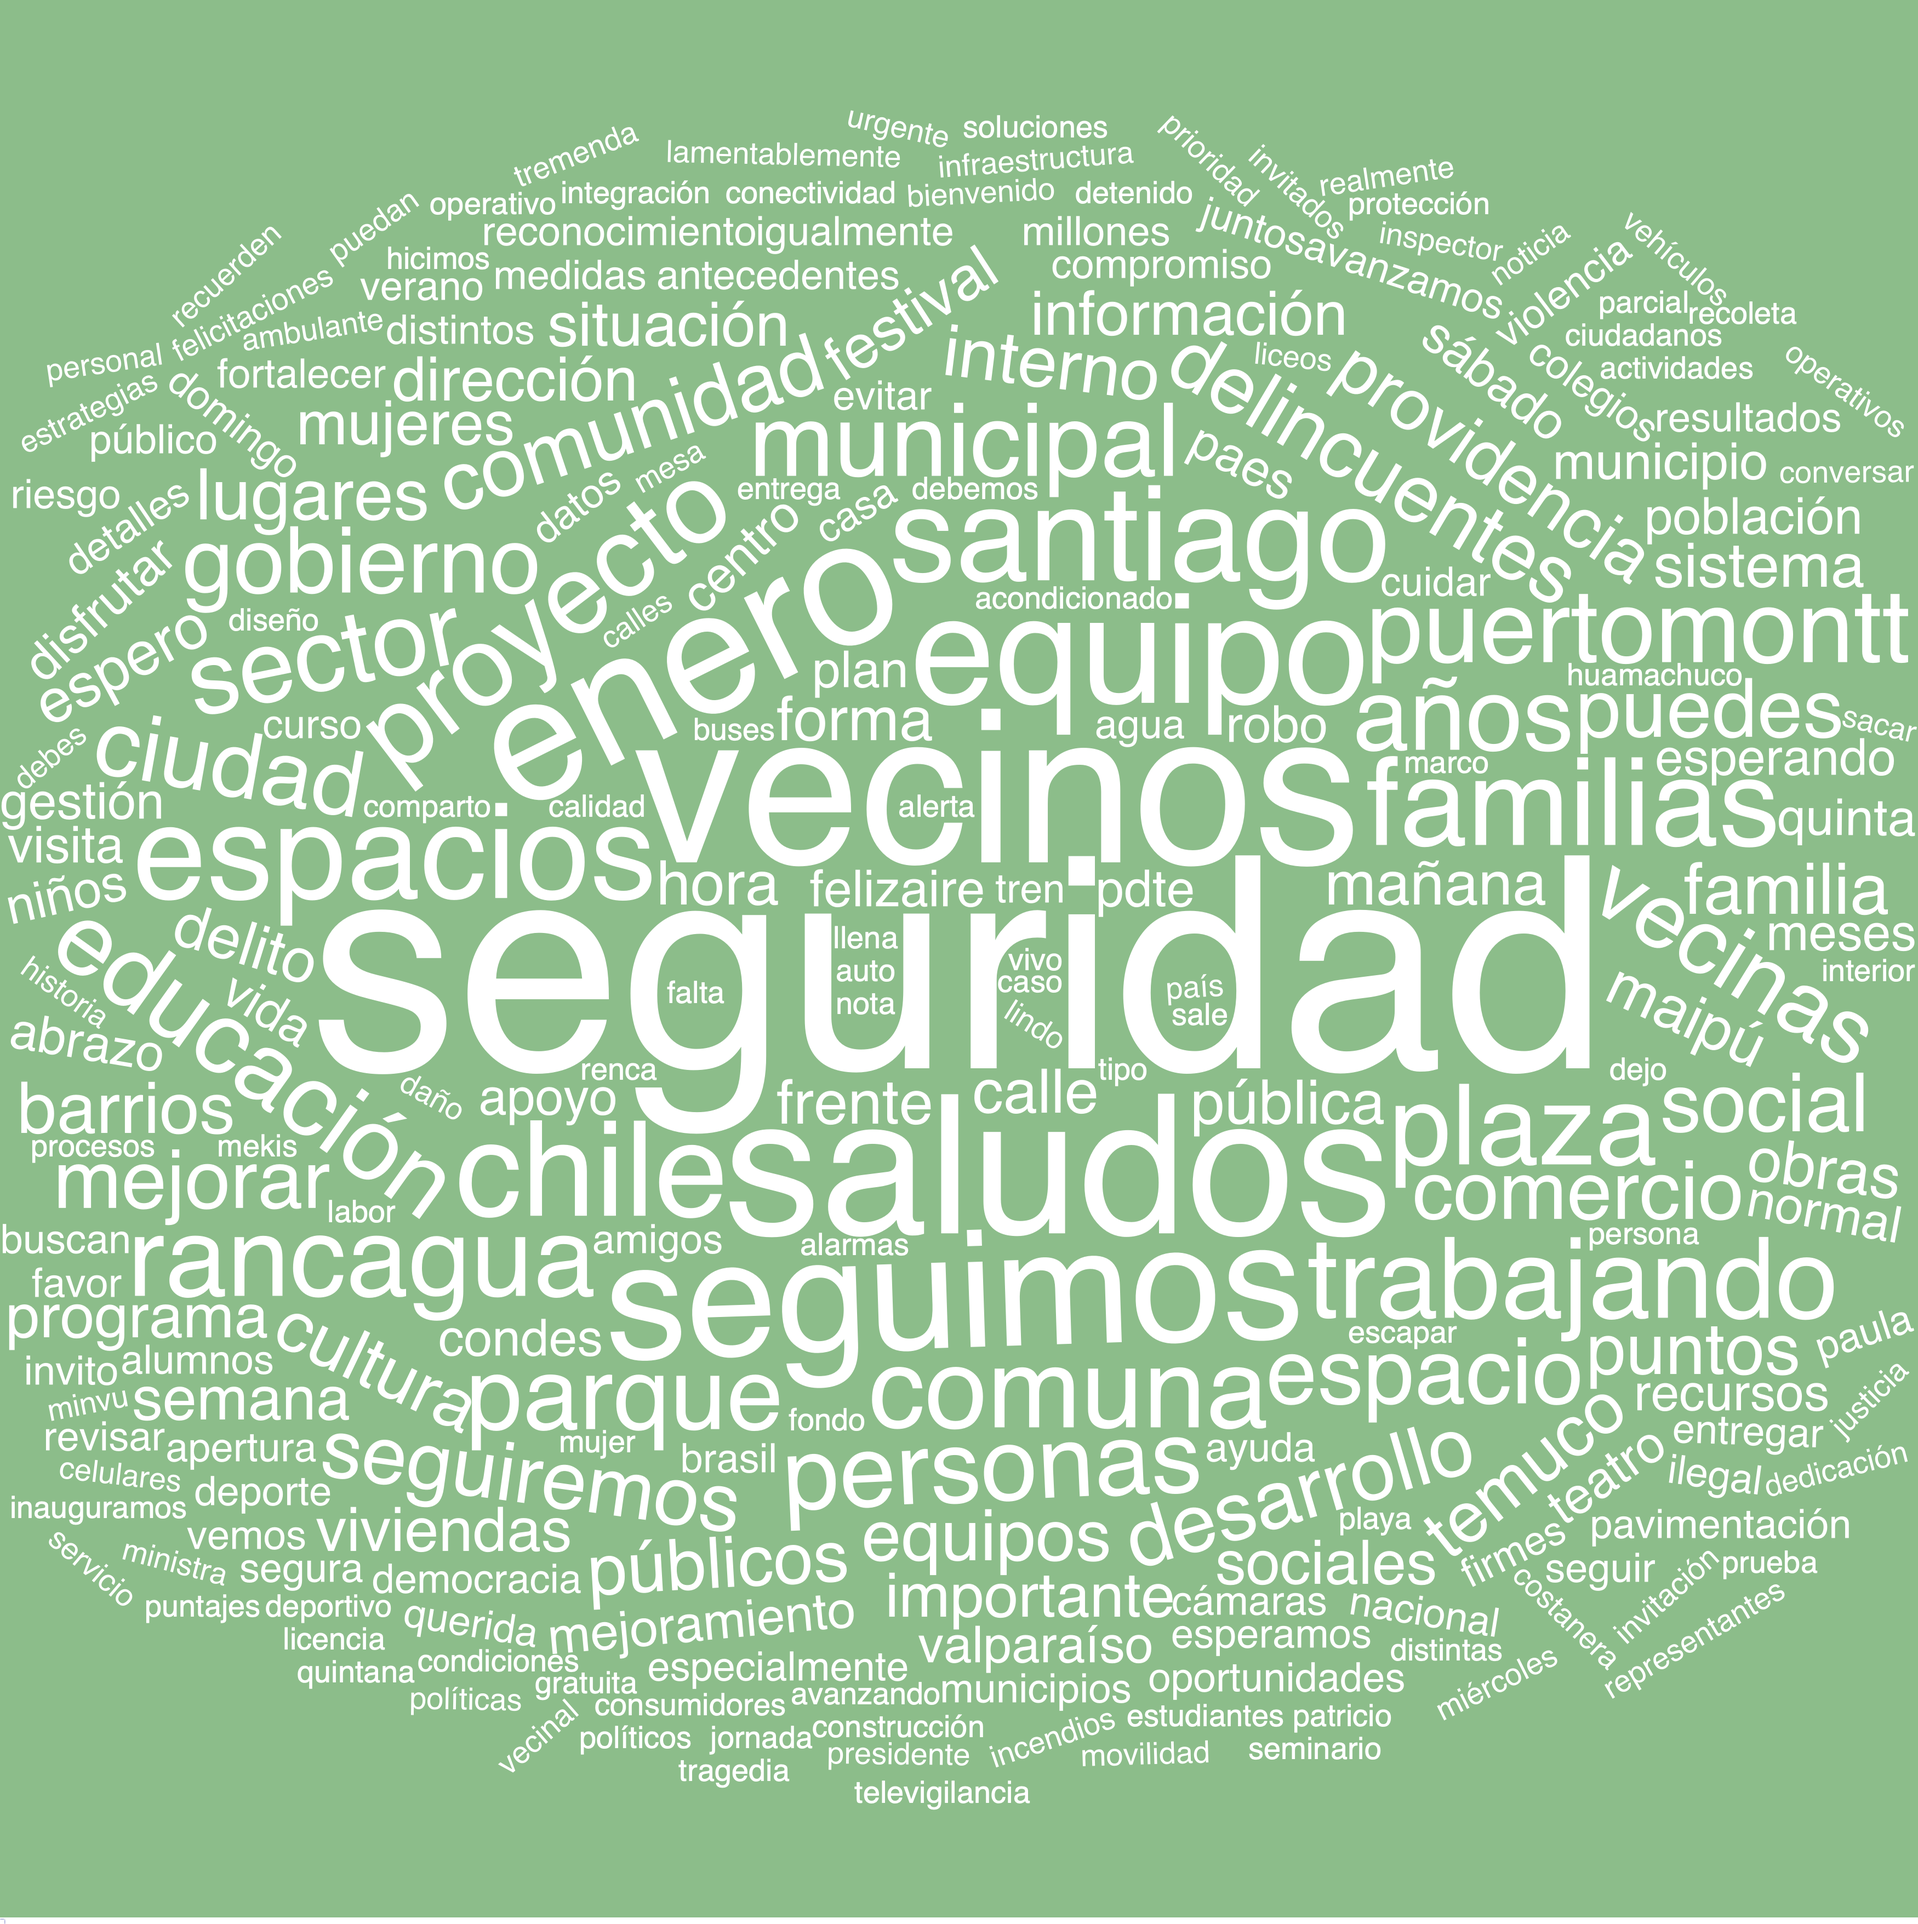
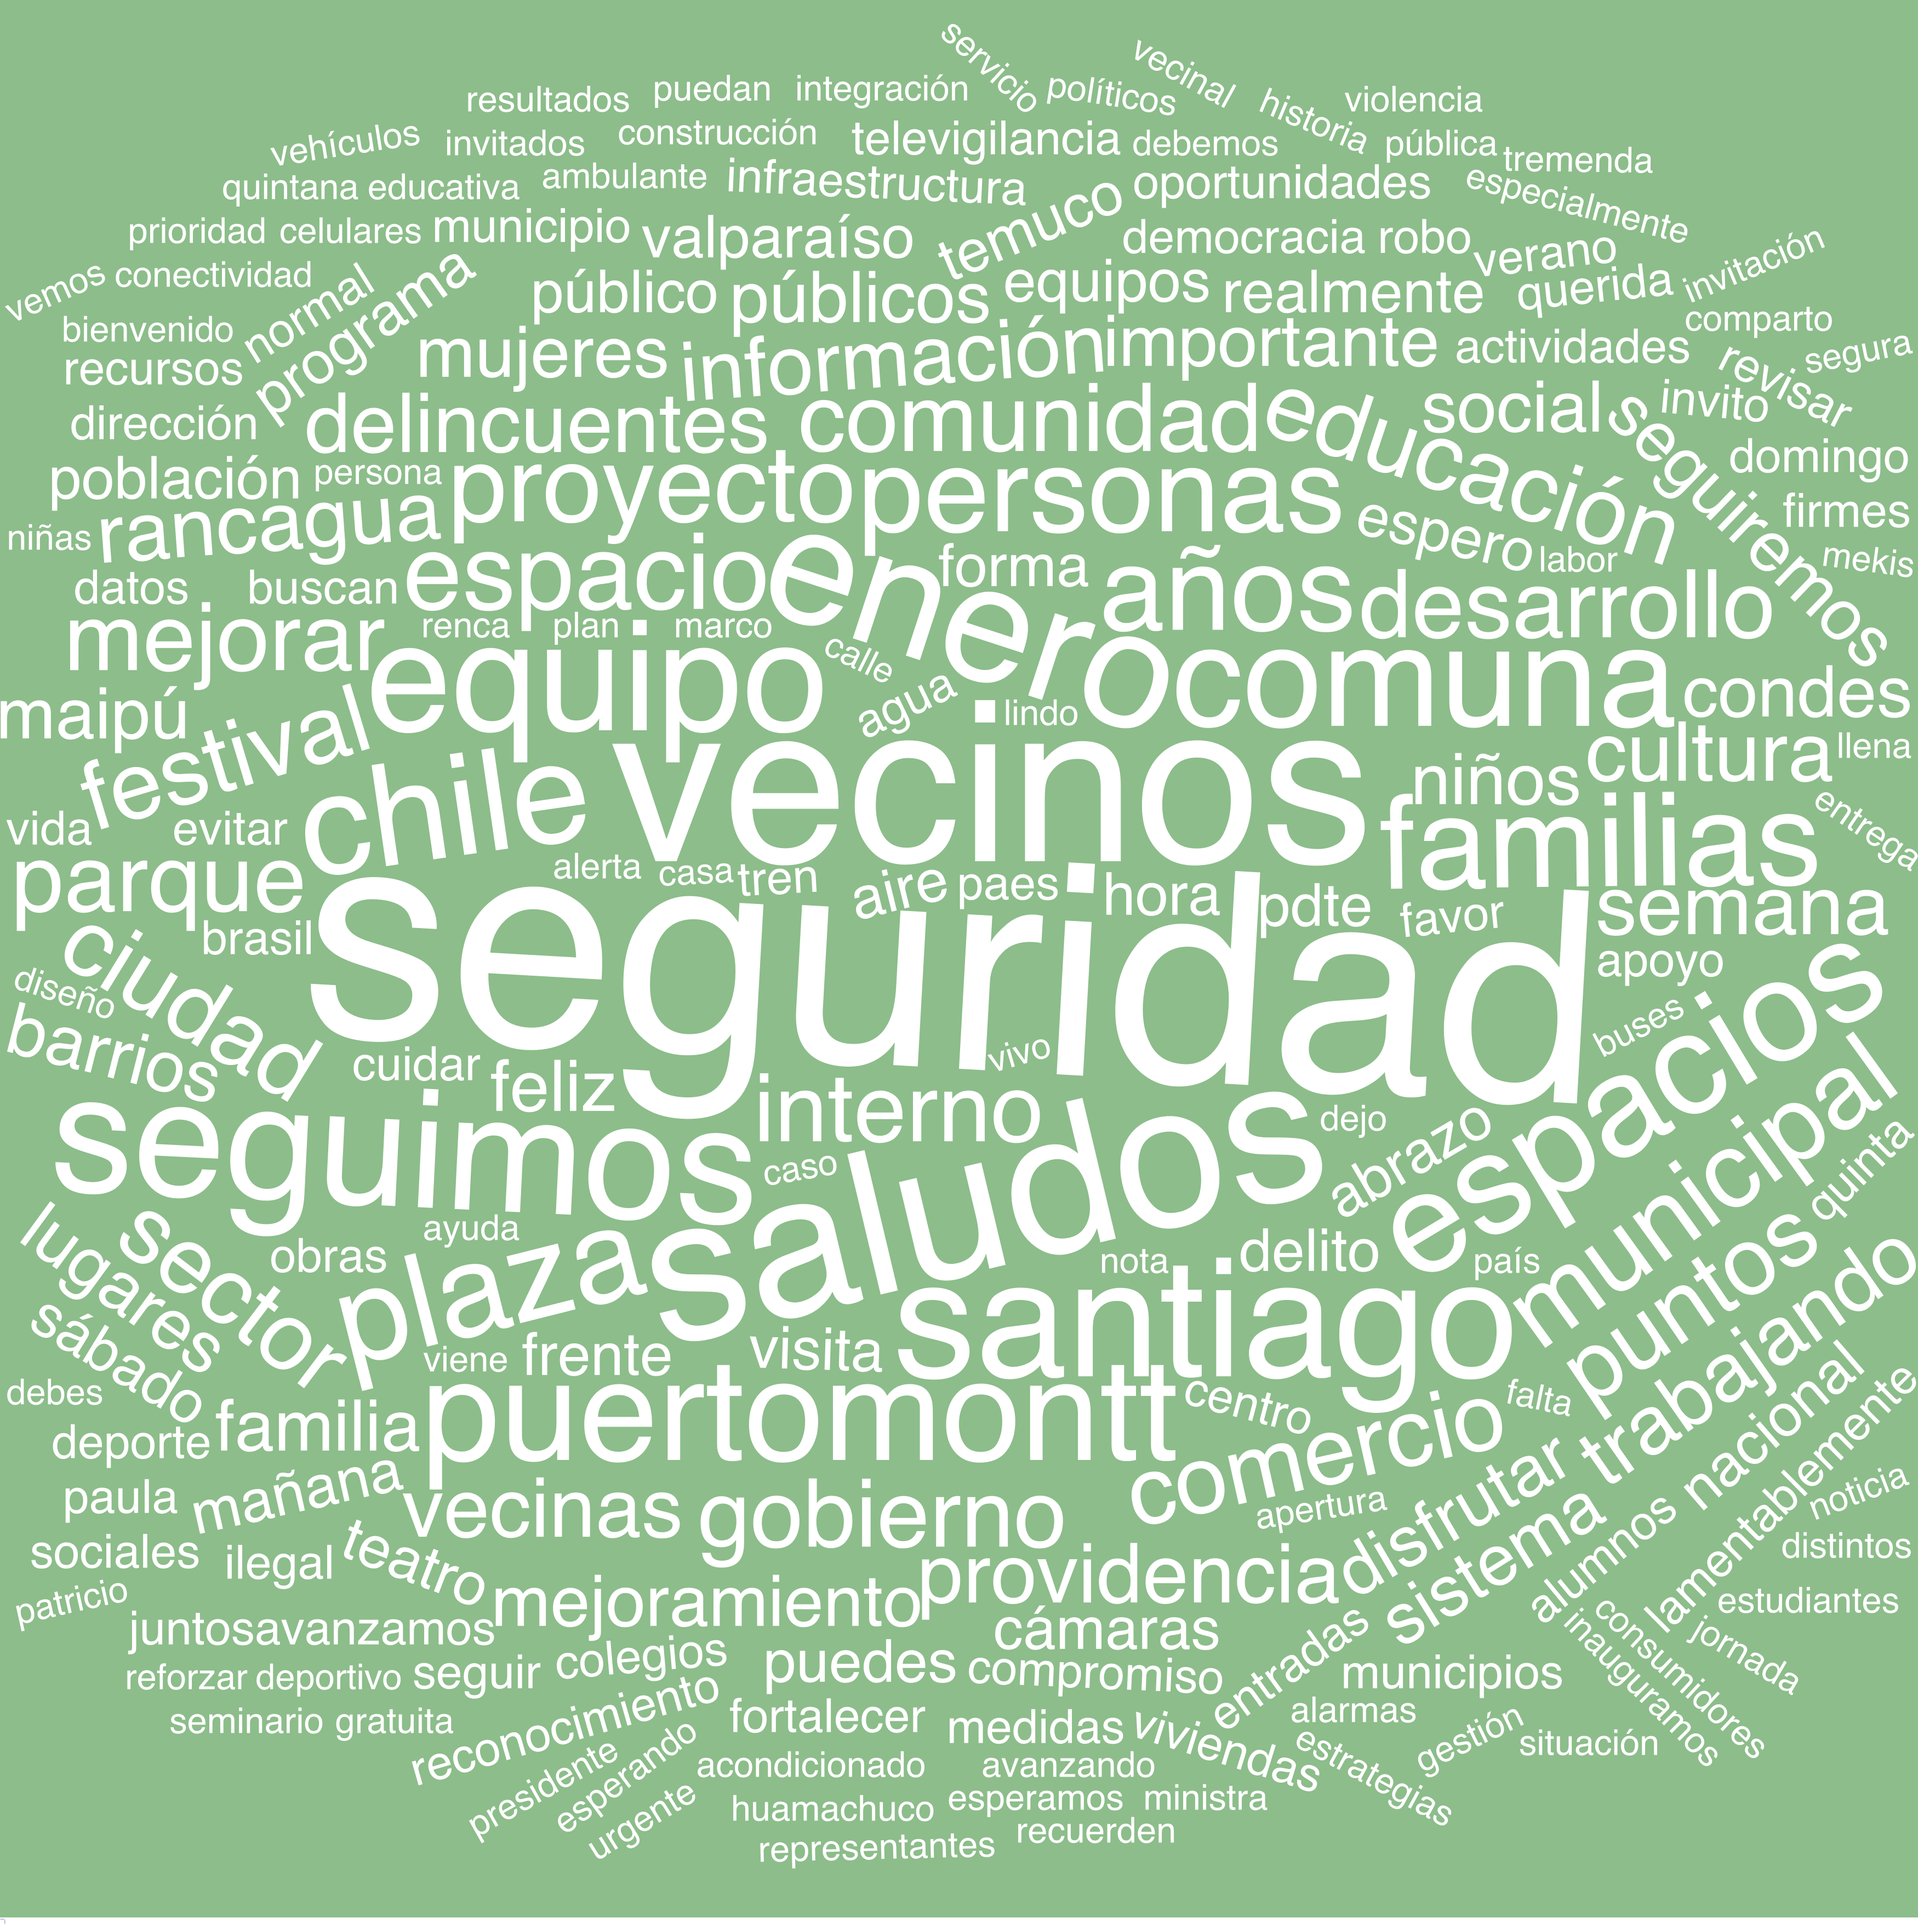
dd

diff --git a/_pages/debate.md b/_pages/debate.md
@@ -6,7 +6,7 @@ description: Información electoral + análisis político. El Debate.
 author_profile: true
 ---
 
-El debate es un sistema automático creado para recopilar y destacar los temas más importantes de la conversación política. Las nubes de palabras representan los asuntos a los cuales los distintos gremios le están dando mayor importancia. Los datos son recolectados por nuestro bot, [Cuatro Séptimos](https://twitter.com/cuatroseptimos).
+El debate es un sistema automático creado para recopilar y destacar los temas más importantes de la conversación política. Las nubes de palabras representan los asuntos a los cuales los distintos gremios le están dando mayor importancia. Los datos son recolectados por nuestro robot, [Cuatro Séptimos](https://twitter.com/cuatroseptimos). El Debate forma parte del proyecto de redes sociales de Tresquintos, que busca archivar tweets históricos de figuras políticas relevantes. Para datos descriptivos, pincha [aquí](https://tresquintos.cl/twitter).
 
 <a href="https://twitter.com/tresquintos?ref_src=twsrc%5Etfw" class="twitter-follow-button" data-show-count="false">Sigue @tresquintos</a><script async src="https://platform.twitter.com/widgets.js" charset="utf-8"></script>
 
@@ -21,6 +21,12 @@ Lee la lista de economistas registrados aquí.
 Lee la lista de economistas registrados aquí.
 
 ![XXXXXXXXX](/images/twitter/wordclouds/wordcloud_political science.png){:height=100%" width="100%"}
+
+## ¿De qué están hablando los Periodistas Políticos?
+
+Lee la lista de periodistas registrados aquí.
+
+![XXXXXXXXX](/images/twitter/wordclouds/wordcloud_journalists.png){:height=100%" width="100%"}
 
 ## ¿De qué están hablando los Medios?
 
